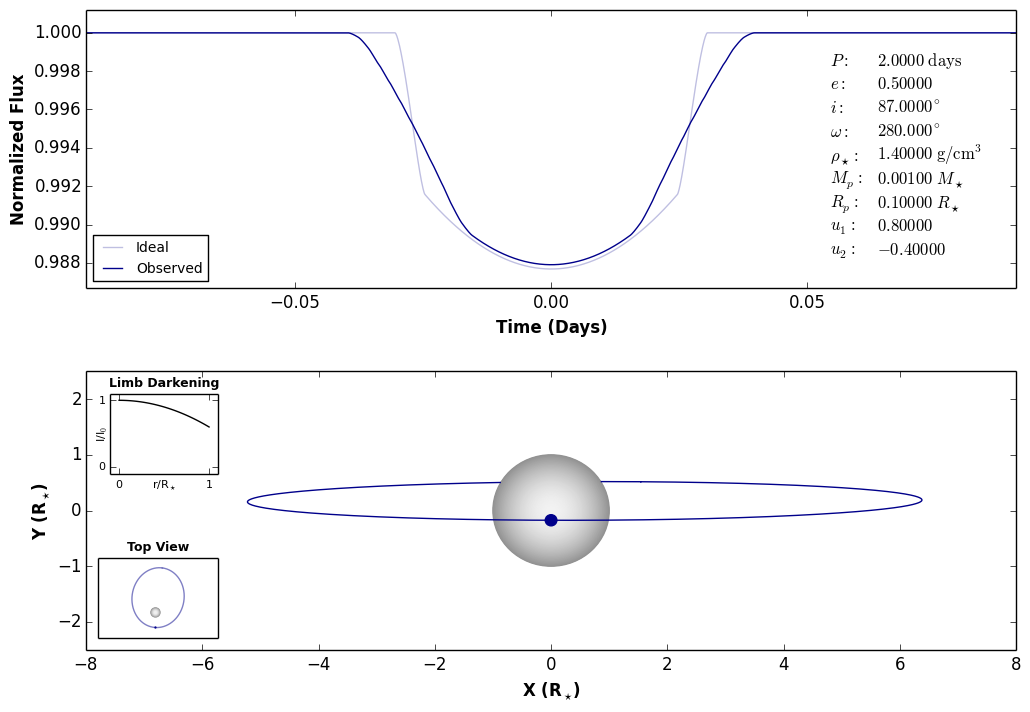
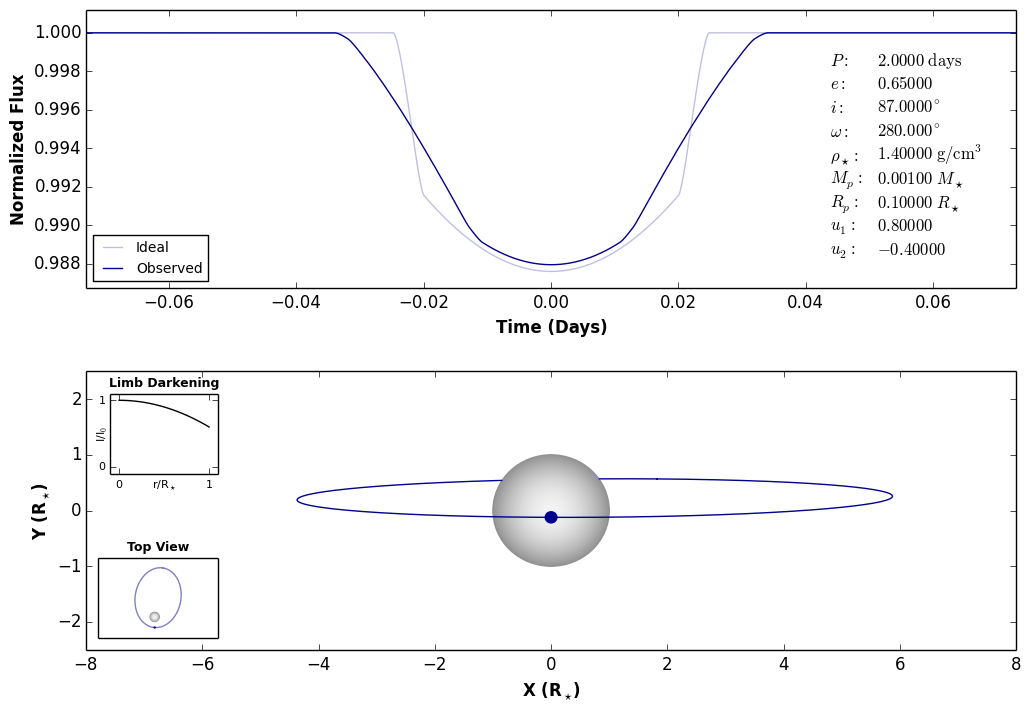
Added version info

diff --git a/pysyzygy.py b/pysyzygy.py
@@ -11,6 +11,10 @@ Coded by Rodrigo Luger, May 2015.
 
 """
 
+__version__ = "0.0.1"
+__author__ = "Rodrigo Luger (rodluger@uw.edu)"
+__copyright__ = "Copyright 2015 Rodrigo Luger"
+
 import matplotlib.pyplot as pl
 import transit
 import numpy as np
@@ -257,4 +261,5 @@ def plot(**kwargs):
   pl.close()
 
 if __name__ == '__main__':
-  plot(e = 0.5, i = 87., w = 280.)
+  # Produce a sample plot
+  plot(e = 0.65, i = 87., w = 280.)
